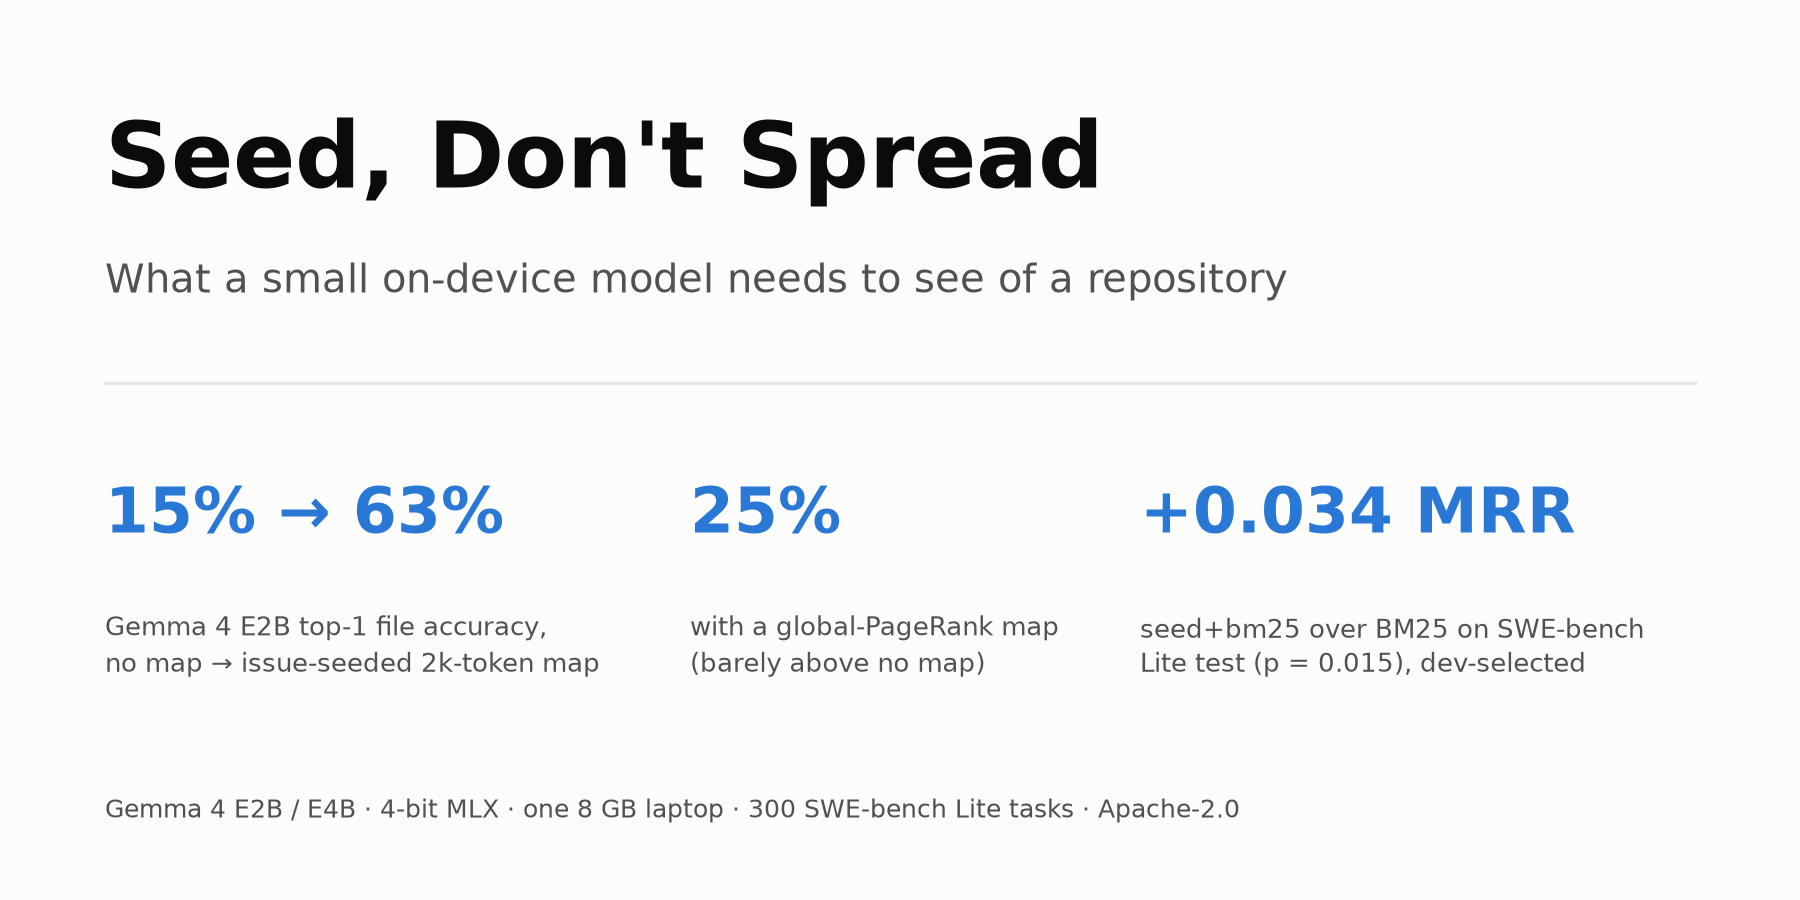
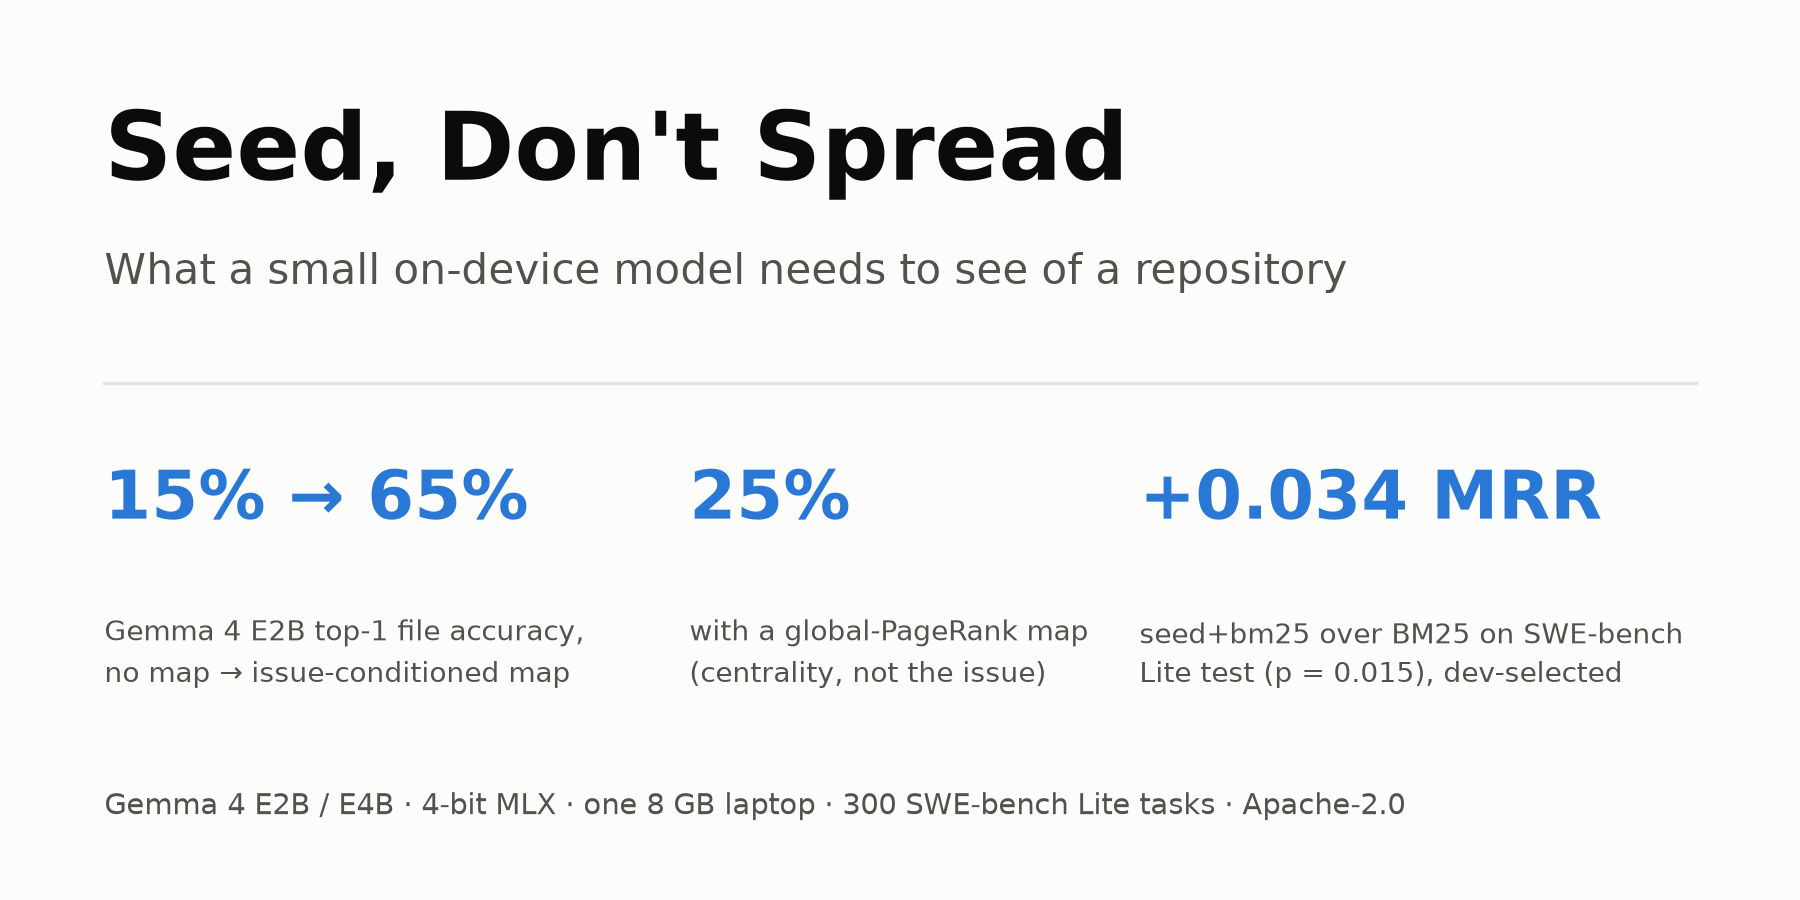
E4B partial results (n=45), cover script, README; paper final

diff --git a/scripts/cover.py b/scripts/cover.py
@@ -1,0 +1,21 @@
+"""Cover card -> paper/cover.png (numbers from results/analysis.md)."""
+from pathlib import Path
+import matplotlib
+matplotlib.use("Agg")
+import matplotlib.pyplot as plt
+
+P = Path(__file__).resolve().parents[1] / "paper"
+SURF, INK, INK2, GRID, BLUE = "#fcfcfb", "#0b0b0b", "#52514e", "#e4e3df", "#2a78d6"
+fig = plt.figure(figsize=(9, 4.5), dpi=200, facecolor=SURF)
+t = lambda x, y, s, **k: fig.text(x, y, s, family="DejaVu Sans", va="top", **k)
+t(.058, .88, "Seed, Don't Spread", size=34, weight="bold", color=INK)
+t(.058, .72, "What a small on-device model needs to see of a repository", size=15, color=INK2)
+fig.add_artist(plt.Line2D([.058, .942], [.575, .575], color=GRID, lw=1.2))
+cols = [(.058, "15% → 65%", "Gemma 4 E2B top-1 file accuracy,\nno map → issue-conditioned map"),
+        (.383, "25%", "with a global-PageRank map\n(centrality, not the issue)"),
+        (.633, "+0.034 MRR", "seed+bm25 over BM25 on SWE-bench\nLite test (p = 0.015), dev-selected")]
+for x, big, small in cols:
+    t(x, .48, big, size=24, weight="bold", color=BLUE)
+    t(x, .32, small, size=10, color=INK2, linespacing=1.5)
+t(.058, .12, "Gemma 4 E2B / E4B · 4-bit MLX · one 8 GB laptop · 300 SWE-bench Lite tasks · Apache-2.0", size=10.5, color=INK2)
+fig.savefig(P / "cover.png", facecolor=SURF)

diff --git a/paper/writeup.md b/paper/writeup.md
@@ -4,7 +4,7 @@
 
 ## Abstract
 
-Offline coding agents cannot read a whole repository, so what they see first decides what they can fix. We study file localization when a small model gets only a *k*-token "repo map" with the issue. We release a standard-library-only toolkit that builds code graphs for all 300 SWE-bench Lite snapshots from git objects, ranks files seven ways, and renders maps to an exact Gemma token budget. We run Gemma 4 E2B and E4B locally on an 8 GB laptop. **(1) Conditioning matters most:** issue-conditioned maps lift Gemma 4 E2B from 15% to 65% top-1 accuracy. A global-PageRank map, as used by popular agents, scores 25%. **(2) Seed, don't spread:** propagating relevance over the code graph with personalized PageRank consistently hurts. Using the graph as a symbol index and fusing it with BM25 is best on a disjoint dev split and lifts test MRR from 0.608 to 0.642 (p = 0.015). **(3) Small budgets suffice:** 500 tokens of signatures match 4,000 at a third of the latency. Once the map is good, the model, not the map, is the bottleneck. <!-- E4B sentence -->
+Offline coding agents cannot read a whole repository, so what they see first decides what they can fix. We study file localization when a small model gets only a *k*-token "repo map" with the issue. We release a standard-library-only toolkit that builds code graphs for all 300 SWE-bench Lite snapshots from git objects, ranks files seven ways, and renders maps to an exact Gemma token budget. We run Gemma 4 E2B and E4B locally on an 8 GB laptop. **(1) Conditioning matters most:** issue-conditioned maps lift Gemma 4 E2B from 15% to 65% top-1 accuracy. A global-PageRank map, as used by popular agents, scores 25%. **(2) Seed, don't spread:** propagating relevance over the code graph with personalized PageRank consistently hurts. Using the graph as a symbol index and fusing it with BM25 is best on a disjoint dev split and lifts test MRR from 0.608 to 0.642 (p = 0.015). **(3) Small budgets suffice:** 500 tokens of signatures match 4,000 at a third of the latency. Once the map is good, the model, not the map, is the bottleneck. Gemma 4 E4B knows more without a map (33% vs 13%) but only matches E2B with one, at 3–4× the latency.
 
 ## 1. Introduction
 
@@ -62,7 +62,7 @@ Files are rendered in rank order as **paths** (one per line) or **sigs** (path p
 
 **Data.** We report on SWE-bench Lite test (300 tasks, 12 repositories). For selection we use the SWE-bench **dev** split: 225 tasks from 6 repositories absent from test. Every Lite task edits one non-test file, so we report **Acc@k** and **MRR**.
 
-**Models.** Gemma 4 E2B-it and E4B-it, 4-bit MLX (`mlx-community/gemma-4-e{2,4}b-it-4bit`), on an Apple laptop with 8 GB of unified memory, greedy decoding, thinking off. The prompt holds the issue (up to 6,000 characters), the map, and a request for the five most likely files. Paths are matched exactly or by unique suffix. Every condition uses the same fixed, repo-stratified sample of 100 test tasks. Intervals are 95% bootstrap, and comparisons are paired bootstrap tests over tasks.
+**Models.** Gemma 4 E2B-it and E4B-it, 4-bit MLX (`mlx-community/gemma-4-e{2,4}b-it-4bit`), on an Apple laptop with 8 GB of unified memory, greedy decoding, thinking off. The prompt holds the issue (up to 6,000 characters), the map, and a request for the five most likely files. Paths are matched exactly or by unique suffix. Every condition uses the same fixed, repo-stratified sample of 100 test tasks (E4B: 45, §4.4). Intervals are 95% bootstrap, and comparisons are paired bootstrap tests over tasks.
 
 ### 4.1 Selecting a ranker on dev: spreading never helps
 
@@ -120,9 +120,9 @@ Visibility caps what any model can do with a map, and it separates the strategie
 
 **Signatures beat coverage.** Paths-only maps show the gold file *more* often than signature maps (0.97–0.99 vs 0.93). Yet signatures raise Acc@1 by 9 points for both seed+bm25 (p = 0.001) and BM25. Seeing what a file defines matters more to the model than seeing more files.
 
-**The model re-ranks weak maps but not strong ones.** On the same tasks, Gemma's top-1 beats the top-1 of the ranker that built its map: PPR 0.40→0.57 (p = 0.001), ppr+bm25 0.50→0.63 (p = 0.006), BM25 0.54→0.63 (p = 0.04). With seed+bm25 the gain shrinks to 0.63→0.65 (p = 0.41), and the model's five-file list (Acc@5 0.81) is *worse* than the ranker's own top five (0.86). Whatever the map, model accuracy converges to 0.57–0.67, and to 0.67–0.70 when the gold file is visible. Once the map is good, the 2B model's judgment, not its view, is the bottleneck. An untuned hybrid that puts the model's top-1 first and then follows the ranker recovers the best of both: Acc@5 0.87 for seed+bm25, vs 0.86 for the ranker and 0.81 for the model. Across ranked maps the differences among bm25, ppr+bm25 and seed+bm25 are within noise at n = 100 (p = 0.26–0.27). The ranker-level gain of seed+bm25 (§4.2, n = 300) is the more reliable comparison.
+**The model re-ranks weak maps but not strong ones.** On the same tasks, Gemma's top-1 beats the top-1 of the ranker that built its map: PPR 0.40→0.57 (p = 0.001), ppr+bm25 0.50→0.63 (p = 0.006), BM25 0.54→0.63 (p = 0.04). With seed+bm25 the gain shrinks to 0.63→0.65 (p = 0.41), and the model's five-file list (Acc@5 0.81) is *worse* than the ranker's own top five (0.86). Whatever the map, model accuracy converges to 0.57–0.67, and to 0.67–0.70 when the gold file is visible. Once the map is good, the 2B model's judgment, not its view, is the bottleneck. An untuned hybrid that puts the model's top-1 first and then follows the ranker recovers the best of both: Acc@5 0.87 for seed+bm25, vs 0.86 for the ranker and 0.81 for the model. Model-level differences among bm25, ppr+bm25 and seed+bm25 are within noise at n = 100 (p ≥ 0.26); the n = 300 ranker comparison (§4.2) is more reliable.
 
-<!-- E4B paragraph -->
+**A bigger model does not replace a good map.** Gemma 4 E4B finished all four conditions on 45 of the 100 tasks before memory pressure on the 8 GB laptop stopped the run, so we report it as partial. On those tasks, E4B more than doubles E2B's no-map accuracy (0.33 vs 0.13, p = 0.002). Once the map is good it gains nothing: BM25 0.69 vs 0.64 (p = 0.13), seed+bm25 0.69 vs 0.69, at 22–31 s per task vs 7–8 s. A global-PageRank map leaves E4B at its no-map 0.33. On a laptop, a good map is worth more than the larger model.
 
 ### 4.5 How many tokens does a small model need?
 
@@ -134,13 +134,13 @@ Very few. Acc@1 is flat across an 8× range of budgets: 0.67, 0.63, 0.65 and 0.6
 
 ## 5. Discussion
 
-**What to build into a small coding agent.** Our results add up to a simple recipe for the localization step of an on-device agent. (i) Condition the context on the issue. Repository-centric summaries (directory trees, centrality-ranked maps) waste most of a small model's budget. (ii) Use the code graph as a *symbol index*: which names are defined where, and how rare they are. Fuse it with lexical retrieval, and do not diffuse relevance over references. (iii) Show signatures, not just paths. (iv) Spend about 500 tokens, not 4,000. On an 8 GB laptop this takes the step from about 11 s to about 4 s with no loss of accuracy.
+**What to build into a small coding agent.** A recipe for on-device localization: (i) Condition the context on the issue. Repository-centric summaries (directory trees, centrality-ranked maps) waste most of a small model's budget. (ii) Use the code graph as a *symbol index*: which names are defined where, and how rare they are. Fuse it with lexical retrieval, and do not diffuse relevance over references. (iii) Show signatures, not just paths. (iv) Spend about 500 tokens, not 4,000. On an 8 GB laptop this takes the step from about 11 s to about 4 s with no loss of accuracy.
 
 **Why diffusion fails here, and where it may not.** PPR suits multi-hop QA, where answers lie *between* query entities. In SWE-bench Lite the file to edit usually defines what the issue names, so every hop moves mass from that definition toward core modules (the hub bias of §4.2). We expect propagation to matter more for multi-file changes and for issues that describe symptoms without naming code (sphinx, where all graph rankers trail BM25). SWE-bench Verified and multi-file benchmarks are the natural next test.
 
-**Generality.** Nothing here is specific to SWE-bench or Gemma. Snapshots come from any git history. The graph needs only definitions and references (tree-sitter would extend it beyond Python). Budgets use the target model's tokenizer. The visibility ceiling is model-free and runs on all 300 tasks in minutes on a CPU, which makes it a cheap first filter for any context-construction method.
+**Generality.** Nothing here is specific to SWE-bench or Gemma: snapshots come from any git history. The graph needs only definitions and references (tree-sitter would extend it beyond Python). Budgets use the target model's tokenizer. The visibility ceiling is model-free and runs on all 300 tasks in minutes on a CPU, which makes it a cheap first filter for any context-construction method.
 
-**Limitations.** We study file-level localization only, not patch generation or end-to-end resolution. All tasks are Python and single-file. Name resolution is untyped. LLM results use 100 tasks per condition, so differences under about 10 points are within noise. We report intervals and avoid such claims. SWE-bench issues may appear in model pre-training data. This affects all conditions equally, and the no-map baseline (15%) bounds how much the model can recall.
+**Limitations.** We study file-level localization only, not patch generation or end-to-end resolution. All tasks are Python and single-file. Name resolution is untyped. LLM results use 100 tasks per condition (E4B: 45), so differences under about 10 points are within noise. SWE-bench issues may appear in model pre-training data. This affects all conditions equally, and the no-map baseline (15%) bounds how much the model can recall.
 
 ## 6. Reproducibility
 

diff --git a/README.md b/README.md
@@ -1,17 +1,58 @@
-# Seed & Spread
+# Seed, Don't Spread
 
-**How should a small, on-device model *see* a repository under a token budget?**
+**What a small on-device model needs to see of a repository.** Paper and code for the Google Gemma 4 Developer Agent Paper Track (Kaggle).
 
-Seed & Spread turns a Python repository into a compact, budgeted "repo map" for small coding agents.
-It builds a lightweight code graph (files, classes, functions, imports, references) with Python's `ast`,
-seeds it with what the issue mentions (paths, dotted names, rare identifiers), and spreads relevance
-with personalized PageRank. The map is then rendered to fit exactly k tokens.
+![cover](paper/cover.png)
 
-This repository holds the library, the benchmark harness on SWE-bench Lite, and every experiment in our
-paper for the Google Gemma 4 Developer Agent Paper Track. All LLM results come from Gemma 4 running
-locally on an 8 GB laptop (Apple MLX, 4-bit).
+Offline coding agents cannot read a whole repository, so the "repo map" they see first decides what they can fix. This repo:
 
-Status: work in progress (experiments running).
+- builds Python code graphs (files, classes, functions, imports, references) for all 300 SWE-bench Lite snapshots straight from git objects;
+- ranks files seven ways (tree, BM25, global PageRank, issue seeds, personalized PageRank, and two fusions);
+- renders maps to an exact Gemma 4 token budget;
+- measures Gemma 4 E2B and E4B (4-bit MLX) localizing the file to fix, all on one 8 GB laptop.
+
+Paper: [`paper/writeup.md`](paper/writeup.md). Every number in it comes from [`results/analysis.md`](results/analysis.md).
+
+## Results
+
+| | |
+|---|---|
+| Gemma 4 E2B top-1 file accuracy, no map → seed+bm25 signature map (2k tokens) | **15% → 65%** (n = 100) |
+| Same model with a global-PageRank map (Aider-style centrality) | 25% |
+| Ranker MRR on SWE-bench Lite test, seed+bm25 vs BM25 (selected on disjoint SWE-bench dev) | 0.642 vs 0.608, p = 0.015 |
+| Personalized-PageRank "spreading" vs not spreading, on dev and test | always worse |
+| 500-token vs 4,000-token map (E2B Acc@1 / latency) | 0.67 / 3.8 s vs 0.64 / 10.6 s |
+| Gemma 4 E4B vs E2B (partial, n = 45) | no map: 0.33 vs 0.13; seed+bm25 map: 0.69 vs 0.69 at 4× the latency |
+
+The recipe: condition the map on the issue, use the code graph as a symbol index rather than diffusing relevance over it, show signatures, and spend about 500 tokens.
+
+## Reproduce
+
+```bash
+uv sync
+bash scripts/clone_repos.sh            # bare clones of the 12 Lite repos (--dev adds the 6 dev repos)
+uv run python scripts/build_snapshots.py   # code graphs -> cache/graphs (about 30 min on a laptop CPU)
+uv run python scripts/eval_rankers.py      # Table 1 + visibility (no LLM)
+SS_DATASET=princeton-nlp/SWE-bench SS_SPLIT=dev SS_TAG=dev uv run python scripts/tune.py   # dev selection
+uv run python scripts/eval_llm.py mlx-community/gemma-4-e2b-it-4bit 100 \
+    none/none/0,seed+bm25/sigs/2000,bm25/sigs/2000,pagerank/sigs/2000   # Apple silicon, MLX
+uv run python scripts/hub_bias.py && uv run python scripts/hybrid.py gemma-4-e2b-it-4bit
+uv run python scripts/analyze.py && uv run python scripts/figures.py
+```
+
+Per-task outputs for every run are committed in `results/`, so `analyze.py` and `figures.py` reproduce all tables and figures without re-running anything.
+
+The public Kaggle notebook, [`notebooks/seed_and_spread_kaggle.ipynb`](notebooks/seed_and_spread_kaggle.ipynb), rebuilds a 60-task subset of the snapshots on a Kaggle CPU and checks that the ranks match the committed ones exactly.
+
+## Layout
+
+- `seedspread/`: library code. `repo.py` reads snapshots from git, `graph.py` builds the AST code graph, `rank.py` holds the rankers, `render.py` renders budgeted maps, `tasks.py` loads the tasks.
+- `scripts/`: experiments, analysis and figures.
+- `results/`: per-task JSONL for every experiment, plus `analysis.md`.
+- `paper/`: the writeup, figures and cover.
+
+No SWE-bench data is redistributed: tasks are loaded from Hugging Face and repositories are cloned from GitHub.
 
 ## License
+
 Apache-2.0

diff --git a/results/analysis.md b/results/analysis.md
@@ -24,13 +24,13 @@ seed+bm25 vs bm25, MRR: diff +0.034, paired bootstrap p=0.015
 |---|---|---|---|---|---|---|---|---|
 | django/django | 114 | 0.00 | 0.03 | 0.41 | 0.44 | 0.59 | 0.61 | 0.63 |
 | sympy/sympy | 77 | 0.00 | 0.02 | 0.54 | 0.59 | 0.66 | 0.59 | 0.66 |
-| matplotlib/matplotlib | 23 | 0.06 | 0.09 | 0.41 | 0.45 | 0.49 | 0.52 | 0.57 |
 | scikit-learn/scikit-learn | 23 | 0.01 | 0.03 | 0.69 | 0.76 | 0.83 | 0.83 | 0.85 |
+| matplotlib/matplotlib | 23 | 0.06 | 0.09 | 0.41 | 0.45 | 0.49 | 0.52 | 0.57 |
 | pytest-dev/pytest | 17 | 0.03 | 0.11 | 0.22 | 0.24 | 0.35 | 0.48 | 0.52 |
 | sphinx-doc/sphinx | 16 | 0.02 | 0.08 | 0.19 | 0.28 | 0.31 | 0.68 | 0.59 |
+| pylint-dev/pylint | 6 | 0.02 | 0.02 | 0.14 | 0.22 | 0.31 | 0.53 | 0.52 |
 | astropy/astropy | 6 | 0.01 | 0.01 | 0.73 | 0.73 | 0.77 | 0.84 | 0.85 |
 | psf/requests | 6 | 0.12 | 0.06 | 0.65 | 0.69 | 0.69 | 0.67 | 0.67 |
-| pylint-dev/pylint | 6 | 0.02 | 0.02 | 0.14 | 0.22 | 0.31 | 0.53 | 0.52 |
 | pydata/xarray | 5 | 0.02 | 0.29 | 0.49 | 0.52 | 0.40 | 0.43 | 0.57 |
 | mwaskom/seaborn | 4 | 0.05 | 0.32 | 0.52 | 0.52 | 0.52 | 0.54 | 0.53 |
 | pallets/flask | 3 | 0.19 | 0.16 | 0.54 | 0.73 | 0.56 | 0.56 | 0.58 |
@@ -143,12 +143,31 @@ Mean MRR by alpha (fuse=none): a=0.2: 0.462, a=0.5: 0.458, a=0.8: 0.447
 - seed+bm25/sigs/2000 vs seed+bm25/sigs/4000: Acc@1 diff +0.01 (n=100, paired bootstrap p=0.354)
 - seed+bm25/sigs/2000 vs tree/paths/2000: Acc@1 diff +0.28 (n=100, paired bootstrap p=0.000)
 
+Hybrid (model top-1, then ranker order) vs ranker alone vs model alone, same tasks:
+- ppr+bm25/sigs/2000: Acc@1 model 0.63 / ranker 0.50; Acc@5 model 0.79 / ranker 0.81 / hybrid 0.85 (n=100)
+- tree/paths/2000: Acc@1 model 0.37 / ranker 0.00; Acc@5 model 0.49 / ranker 0.01 / hybrid 0.37 (n=100)
+- bm25/sigs/2000: Acc@1 model 0.63 / ranker 0.54; Acc@5 model 0.78 / ranker 0.81 / hybrid 0.85 (n=100)
+- pagerank/sigs/2000: Acc@1 model 0.25 / ranker 0.01; Acc@5 model 0.35 / ranker 0.04 / hybrid 0.27 (n=100)
+- ppr/sigs/2000: Acc@1 model 0.57 / ranker 0.40; Acc@5 model 0.75 / ranker 0.72 / hybrid 0.77 (n=100)
+- seed+bm25/sigs/2000: Acc@1 model 0.65 / ranker 0.63; Acc@5 model 0.81 / ranker 0.86 / hybrid 0.87 (n=100)
+- seed+bm25/sigs/500: Acc@1 model 0.67 / ranker 0.63; Acc@5 model 0.81 / ranker 0.86 / hybrid 0.86 (n=100)
+- seed+bm25/sigs/1000: Acc@1 model 0.63 / ranker 0.63; Acc@5 model 0.80 / ranker 0.86 / hybrid 0.86 (n=100)
+- seed+bm25/sigs/4000: Acc@1 model 0.64 / ranker 0.63; Acc@5 model 0.80 / ranker 0.86 / hybrid 0.86 (n=100)
+- seed+bm25/paths/2000: Acc@1 model 0.56 / ranker 0.63; Acc@5 model 0.77 / ranker 0.86 / hybrid 0.88 (n=100)
+- bm25/paths/2000: Acc@1 model 0.54 / ranker 0.54; Acc@5 model 0.75 / ranker 0.81 / hybrid 0.85 (n=100)
+
 responses with no valid path: 108/1200
 
-## Table 3: gemma-4-e4b-it-4bit file localization (tasks with all conditions: 1)
+## Table 3: gemma-4-e4b-it-4bit file localization (tasks with all conditions: 45)
 
 | condition | n | Acc@1 [95% CI] | Acc@5 | gold in map | Acc@1 given gold in map | ranker top-1 | prompt tokens | sec/task |
 |---|---|---|---|---|---|---|---|---|
-| none/none/0 | 1 | 0.00 [0.00, 0.00] | 0.00 | - | - | - | 210 | 28.4 |
+| none/none/0 | 45 | 0.33 [0.20, 0.47] | 0.47 | - | - | - | 632 | 9.1 |
+| bm25/sigs/2000 | 45 | 0.69 [0.56, 0.82] | 0.89 | 0.96 | 0.72 | 0.51 | 2627 | 21.9 |
+| pagerank/sigs/2000 | 45 | 0.33 [0.20, 0.47] | 0.44 | 0.24 | 0.73 | 0.02 | 2628 | 23.6 |
+| seed+bm25/sigs/2000 | 45 | 0.69 [0.56, 0.82] | 0.89 | 0.93 | 0.74 | 0.60 | 2627 | 31.1 |
+- seed+bm25/sigs/2000 vs none/none/0: Acc@1 diff +0.36 (n=45, paired bootstrap p=0.000)
+- seed+bm25/sigs/2000 vs bm25/sigs/2000: Acc@1 diff +0.00 (n=45, paired bootstrap p=0.615)
+- seed+bm25/sigs/2000 vs pagerank/sigs/2000: Acc@1 diff +0.36 (n=45, paired bootstrap p=0.000)
 
-responses with no valid path: 0/1
+responses with no valid path: 25/181
